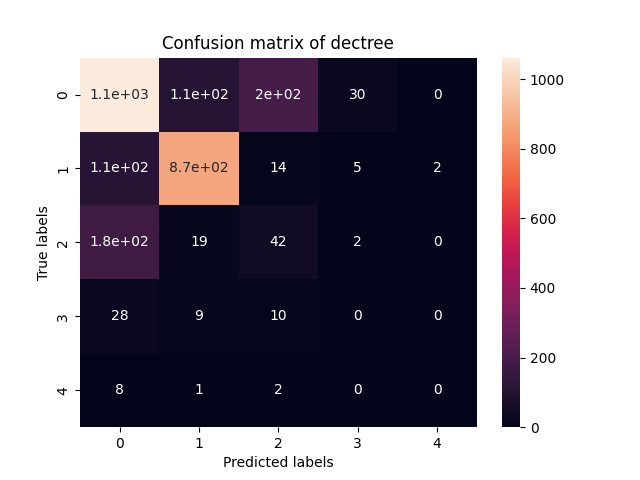
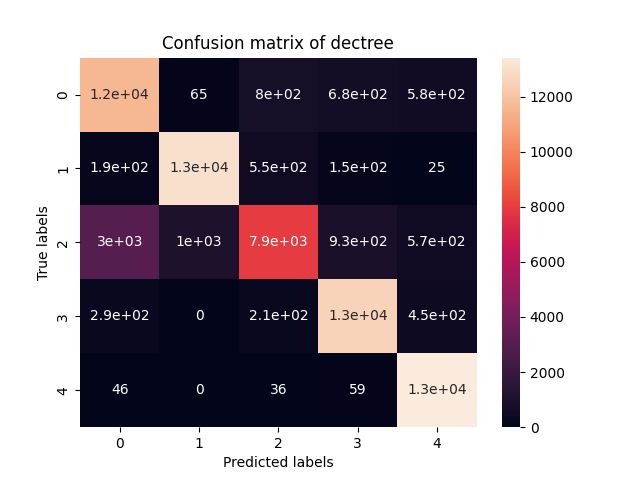
Fixed bugs

diff --git a/data_preprocess.py b/data_preprocess.py
@@ -28,17 +28,13 @@ tester l’effet du codage sur les différents outils considérés
 
 '''
 
-
 # Data path 
 path = "../data/projects.csv"
-
-
 # Pandas dataframe
 data = pd.read_csv(path, encoding="ISO-8859-1")
 
-
-
 class DataPreparation:
+
     '''
     Args:
         - data: Pandas dataframe
@@ -52,8 +48,6 @@ class DataPreparation:
         class_label = data.state.unique()
         print(class_label)
         print(data["state"].value_counts())
-
-
         # Divide by class
         df_class_0 = data[data['state'] == "canceled"]
         df_class_1 = data[data['state'] == "successful"]
@@ -63,7 +57,6 @@ class DataPreparation:
         count_max = len(df_class_2.state)
         print(count_max)
 
-        
         # # Oversample 1-class and concat the DataFrames of both classes
         print("Oversampling data start...")
         df_class_0_over = df_class_0.sample(count_max, replace=True)
@@ -184,11 +177,9 @@ class DataPreparation:
 
         # As drop the already used attributes or useless attributes such name, and Id
         data.drop(["start_date", "end_date","id", "currency", "name"], axis=1, inplace=True)
-
     
         return data
     
-
     def recodage(self, data, binairy=False, ignored_goal=False, ignored_pledged=False):
         '''
         Args:
@@ -197,6 +188,7 @@ class DataPreparation:
              - main_data: input data  
              - data["state"]: target data
         '''
+
         scaler = StandardScaler()
         if binairy:
             data["state"] = data.state.apply(lambda x:self.class_binary(x))
@@ -212,15 +204,12 @@ class DataPreparation:
             encoder = OneHotEncoder(handle_unknown="ignore")
             encoder.fit(data_categorical)
             X_cat = encoder.transform(data_categorical).toarray()
-            # One hot encoded categorical data
-            
-
+            # One hot encoded categorical data   
             print(f"The following attributes have been one hot encoded: {data_categorical.columns.values}")
             data_categorical_encoded =pd.DataFrame(X_cat, columns= ["col"+str(i) for i in range(X_cat.shape[1])])
             main_data = pd.concat([data_numerical_scaled, data_categorical_encoded], axis=1)
+
             return main_data,data["state"], data_numerical_scaled, data_categorical_encoded
-
-
 
         else:
             # Separate the data  into the numerical and categorical
@@ -254,16 +243,17 @@ class DataPreparation:
 
             data["state"] = data.state.apply(lambda x:label_to_num[x])
            
-       
-        return main_data,data["state"], data_numerical_scaled, data_categorical_encoded
+            return main_data,data["state"], data_numerical_scaled, data_categorical_encoded
 
 
-    def pretraitement(self,data, categorical=False, numerical=False, bayesian=False, data_for_bayesian=None):
+    def pretraitement(self,data, categorical=False, numerical=False, bayesian=False, binary=False,ignored_goal=False,ignored_pledged=False):
         '''
         Categorical:(boolean) if set to true return the already one encoded categorical data for some specific classifier such as naive bayes classifier
+        Args:
+          -data(Pandas DataFrame): Already one-hot-encoded dataframe. It contains
         '''
 
-        main_data,  target, data_numerical_scaled, data_categorical_encoded =self.recodage(data, binairy=False)
+        main_data,  target, data_numerical_scaled, data_categorical_encoded =self.recodage(data, binairy=binary,ignored_goal=ignored_goal, ignored_pledged=ignored_pledged)
         if categorical:
             return  data_categorical_encoded,target
         elif numerical:
@@ -273,21 +263,21 @@ class DataPreparation:
             encoder = OrdinalEncoder()
             label_encoder = LabelEncoder()
             #data = self.nettoyage()
-            target = data_for_bayesian["state"]
-            data_for_bayesian.drop(["pledged"], axis=1, inplace=True)
-            data_for_bayesian.drop(["subcategory"], axis=1, inplace=True)
-            data_for_bayesian.drop(["state"], axis=1, inplace=True)
+            target = data["state"]
+            data.drop(["pledged"], axis=1, inplace=True)
+            data.drop(["subcategory"], axis=1, inplace=True)
+            data.drop(["state"], axis=1, inplace=True)
             # discretize the attributes age, backers, goal,duration with equal-intervaled bins
-            age = pd.qcut(data_for_bayesian['age'], q=10, precision=0)
-            backers = pd.qcut(data_for_bayesian['backers'], q=3, precision=0)
-            goal = pd.qcut(data_for_bayesian['goal'], q=10, precision=0)
-            duration = pd.cut(data_for_bayesian['duration'], 10, precision=0)
-            data_for_bayesian["age"] = age
-            data_for_bayesian["backers"] = backers
-            data_for_bayesian["goal"] = goal
-            data_for_bayesian["duration"] = duration
-            data_encoded = encoder.fit_transform(data_for_bayesian)
-            data_final = pd.DataFrame(data_encoded, columns=data_for_bayesian.columns)
+            age = pd.qcut(data['age'], q=10, precision=0)
+            backers = pd.qcut(data['backers'], q=3, precision=0)
+            goal = pd.qcut(data['goal'], q=10, precision=0)
+            duration = pd.cut(data['duration'], 10, precision=0)
+            data["age"] = age
+            data["backers"] = backers
+            data["goal"] = goal
+            data["duration"] = duration
+            data_encoded = encoder.fit_transform(data)
+            data_final = pd.DataFrame(data_encoded, columns=data.columns)
             target_encoded = label_encoder.fit_transform(target)
             # print(label_encoder.inverse_transform(target_encoded))
             # print(data_final)
@@ -299,7 +289,7 @@ class DataPreparation:
             return main_data, target
          
 
-    def decoupage(self, data, categorical_data =False, numerical_data=False, bayesian=False, data_for_bayesian=None):
+    def decoupage(self, data, categorical_data =False, numerical_data=False, bayesian=False, binary=False,ignored_goal=False,ignored_pledged=False):
         '''
         Args:
             - X(pandas DataFrame): input data
@@ -316,7 +306,7 @@ class DataPreparation:
         '''
 
         if categorical_data:
-            data_categorical, target = self.pretraitement(data, categorical=categorical_data)
+            data_categorical, target = self.pretraitement(data, categorical=categorical_data,binary=binary, ignored_goal=ignored_goal,ignored_pledged=ignored_pledged)
             # Split Train data and validation
             X_train, X_valid, y_train,y_valid = train_test_split(data_categorical, target, test_size=0.1, random_state=42)
             # 10 % of test data and 10% of valid data and 80 % of train data
@@ -324,13 +314,13 @@ class DataPreparation:
             return X_train, X_valid,X_test, y_train, y_valid,y_test
 
         elif numerical_data:
-            data_numerical_scaled, target = self.pretraitement(data, numerical=numerical_data)
+            data_numerical_scaled, target = self.pretraitement(data, numerical=numerical_data,binary=binary, ignored_goal=ignored_goal,ignored_pledged=ignored_pledged)
             X_train, X_valid, y_train,y_valid = train_test_split(data_numerical_scaled, target, test_size=0.1, random_state=42)
             # 10 % of test data and 10% of valid data and 80 % of train data
             X_train, X_test, y_train,y_test = train_test_split(X_train, y_train, test_size=0.1, random_state=42)
             return X_train, X_valid,X_test, y_train, y_valid,y_test
         elif bayesian:
-            data_categorical_bayes, target= self.pretraitement(data_for_bayesian, bayesian=True, data_for_bayesian=data_for_bayesian)
+            data_categorical_bayes, target= self.pretraitement(data, bayesian=True)
             X_train, X_valid, y_train,y_valid = train_test_split(data_categorical_bayes, target, test_size=0.1, random_state=42)
             # 10 % of test data and 10% of valid data and 80 % of train data
             X_train, X_test, y_train,y_test = train_test_split(X_train, y_train, test_size=0.1, random_state=42)
@@ -357,11 +347,17 @@ class DataPreparation:
         print(f'Shape of ytest {y_test.shape}')
 
 
-def main_data_splitter(data, categorical = False, numerical=False, bayesian=False):
+def main_data_splitter(data, categorical = False, numerical=False, bayesian=False, binary=False,ignored_goal=False,ignored_pledged=False):
 
     '''
     Args: 
         - data: pandas DataFrame
+        - categorical(Boolean)
+        - numerical(Boolean)
+        - bayesian(Boolean)
+        - binary(Boolean)
+        - ignored_goal(Boolean)
+        - ignored_pledged(Boolean)
     Return:
     - X_train
     - X_valid
@@ -375,19 +371,19 @@ def main_data_splitter(data, categorical = False, numerical=False, bayesian=Fals
     data = preparation.nettoyage()
     data = preparation.data_augmenter(data)
     if categorical:
-        X_train, X_valid,X_test, y_train, y_valid,y_test = preparation.decoupage(data, categorical_data=categorical)
+        X_train, X_valid,X_test, y_train, y_valid,y_test = preparation.decoupage(data, categorical_data=categorical, binary=binary, ignored_goal=ignored_goal, ignored_pledged=ignored_pledged)
 
         preparation.print_shape(X_train, X_valid,X_test, y_train, y_valid,y_test)
         return X_train, X_valid,X_test, y_train, y_valid,y_test
     
     elif numerical:
-        X_train, X_valid,X_test, y_train, y_valid,y_test = preparation.decoupage(data, numerical_data=numerical)
+        X_train, X_valid,X_test, y_train, y_valid,y_test = preparation.decoupage(data, numerical_data=numerical,binary=binary, ignored_goal=ignored_goal, ignored_pledged=ignored_pledged)
         preparation.print_shape(X_train, X_valid,X_test, y_train, y_valid,y_test)
 
         return X_train, X_valid,X_test, y_train, y_valid,y_test
 
     elif bayesian:
-        X_train, X_valid,X_test, y_train, y_valid,y_test = preparation.decoupage(data, bayesian=True, data_for_bayesian=data)
+        X_train, X_valid,X_test, y_train, y_valid,y_test = preparation.decoupage(data, bayesian=True)
         preparation.print_shape(X_train, X_valid,X_test, y_train, y_valid,y_test)
         return X_train, X_valid,X_test, y_train, y_valid,y_test
 
@@ -401,10 +397,11 @@ def main_data_splitter(data, categorical = False, numerical=False, bayesian=Fals
 
 
 X_train, X_valid,X_test, y_train, y_valid,y_test= main_data_splitter(data, bayesian=True)
-#X_train, X_valid,X_test, y_train, y_valid,y_test= main_data_splitter(data, numerical=True)
+# X_train, X_valid,X_test, y_train, y_valid,y_test= main_data_splitter(data, numerical=True)
 # X_train, X_valid,X_test, y_train, y_valid,y_test= main_data_splitter(data, categorical=True)
 
 print(X_train)
+print(y_train)
 
 # print(X_train)
 # m = DataPreparation(data)

diff --git a/classifier.py b/classifier.py
@@ -38,8 +38,8 @@ class Classifier:
         classification = classification_report(y_test, y_pred_test)
         print(classification)
 
-    def svm_classifier(self, numerical=False, categorical=False):
-        X_train, X_valid,X_test, y_train, y_valid,y_test= main_data_splitter(data,numerical=numerical, categorical=categorical)
+    def svm_classifier(self, numerical=False, categorical=False,ignored_pledged=False,ignored_goal=False):
+        X_train, X_valid,X_test, y_train, y_valid,y_test= main_data_splitter(data,numerical=numerical, categorical=categorical, ignored_goal=ignored_goal, ignored_pledged=ignored_pledged)
         # initialize the svm classifier
         SVM = svm.LinearSVC(C=1.0,tol=1e-4, multi_class='ovr',max_iter=5000, penalty='l2') #LinearSVC
         print("Training the svm model in process...")
@@ -66,7 +66,7 @@ class Classifier:
         
 
     def naive_bayes_classifier(self):
-        X_train, X_valid,X_test, y_train, y_valid,y_test= main_data_splitter(data,bayesian=True)
+        X_train, X_valid,X_test, y_train, y_valid,y_test= main_data_splitter(data, bayesian=True)
         naive = CategoricalNB()
         print("Training the naive bayes model in process...")
         naive.fit(X_train, y_train)
@@ -92,8 +92,8 @@ class Classifier:
         
         self.plot_confusion_matrix(y_test, y_pred_test, "naive")
 
-    def knn_classifier(self, k=20):
-        X_train, X_valid,X_test, y_train, y_valid,y_test= main_data_splitter(data, numerical=True)
+    def knn_classifier(self, k=20,numerical_data=False,categorical_data=False,ignored_pledged=False,ignored_goal=False):
+        X_train, X_valid,X_test, y_train, y_valid,y_test= main_data_splitter(data, numerical=numerical_data,categorical=categorical_data,ignored_pledged=ignored_pledged,ignored_goal=ignored_goal)
         print("Training the k nearest neighbors model in process...")
         knn = KNeighborsClassifier(n_neighbors=k)
         knn.fit(X_train, y_train)
@@ -120,40 +120,30 @@ class Classifier:
         
         self.plot_confusion_matrix(y_test, y_pred_test, "knn")
 
-    def decision_tree_classifier(self):
-        X_train, X_valid,X_test, y_train, y_valid,y_test= main_data_splitter(data)
-
+    def decision_tree_classifier(self,numerical_data=False,categorical_data=False,ignored_pledged=False,ignored_goal=False):
+        X_train, X_valid,X_test, y_train, y_valid,y_test= main_data_splitter(data, numerical=numerical_data,categorical=categorical_data,ignored_pledged=ignored_pledged,ignored_goal=ignored_goal)
         dectree = tree.DecisionTreeClassifier()
-
         dectree.fit(X_train, y_train)
         print("Training terminated")
-
-        print("Training terminated")
-
         y_pred_valid = dectree.predict(X_valid)
 
         y_pred_test =  dectree.predict(X_test)
-
-
         print('Accuracy of  dectree classifier on training set: {:.2f}'
             .format(dectree.score(X_train, y_train)))
-
         print('Accuracy of dectree classifier on validation set: {:.2f}'
             .format(dectree.score(X_valid, y_valid)))
-
         print("Confusion matrix of validation data")
         print(confusion_matrix(y_valid, y_pred_valid))
-
         print('Accuracy of dectree classifier on test set: {:.2f}'
             .format(dectree.score(X_test, y_test)))
         
         self.plot_confusion_matrix(y_test, y_pred_test, "dectree")
 
 model = Classifier()
-# model.svm_classifier(numerical=True)
-# print("#"*150)
+# model.svm_classifier(numerical=True,ignored_pledged=True)
+# # print("#"*150)
 model.naive_bayes_classifier()
 # print("#"*150)
-# model.knn_classifier()
+# model.knn_classifier(k=30,numerical_data=True, ignored_pledged=True)
 # print("#"*150)
-# model.decision_tree_classifier()
+# model.decision_tree_classifier(numerical_data=True, ignored_pledged=True)
